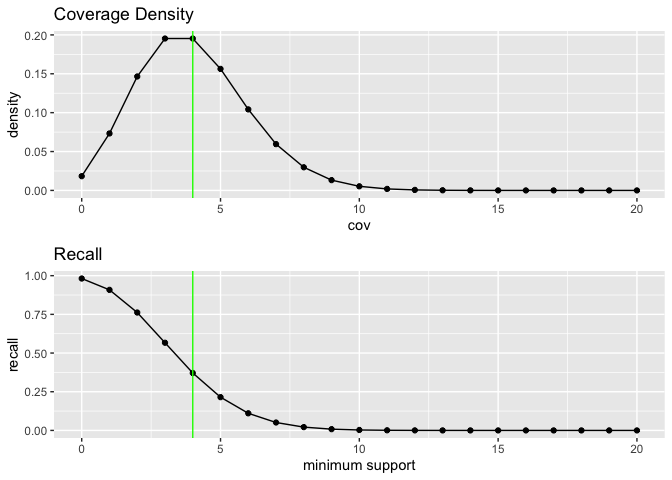
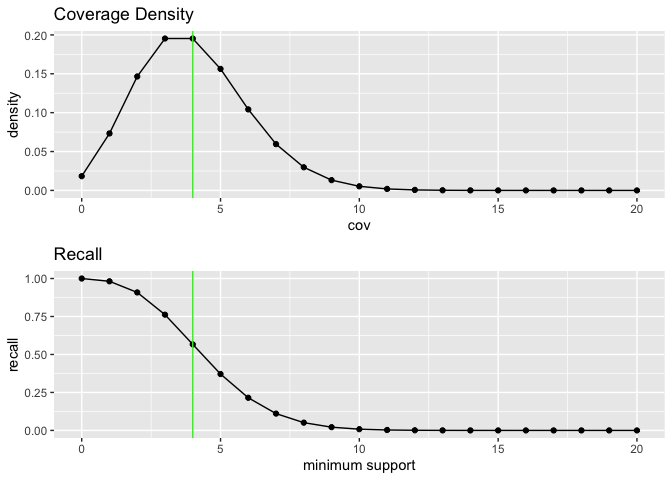
fix ppois issue

diff --git a/coverage_analysis.md b/coverage_analysis.md
@@ -45,11 +45,11 @@ for (x in 1:num_reads)
 ## Summarize the coverage
 
     ## Read counts: 
-    ##    hap1: 49862 hap2: 50138 total: 1e+05 
+    ##    hap1: 49953 hap2: 50047 total: 1e+05 
     ##  Covearge per haplotype:
-    ##    hap1: 49.862 +/- 7.206 [expected sd: 7.061 ]
-    ##    hap2: 50.138 +/- 7.194 [expected sd: 7.081 ]
-    ##    total: 100 +/- 10.32 [expected sd: 10 ]
+    ##    hap1: 49.953 +/- 7.13 [expected sd: 7.068 ]
+    ##    hap2: 50.047 +/- 7.197 [expected sd: 7.074 ]
+    ##    total: 100 +/- 10.2 [expected sd: 10 ]
 
 ## Compute Possion approximation sequencing coverage
 
@@ -87,7 +87,7 @@ for (x in cov_cutoff)
   cov_avail[x]=length(total_coverage[total_coverage >= cov_cutoff[x]])
 }
 df_cov <- data.frame(cutoff = cov_cutoff, avail=cov_avail, avail_perc=cov_avail/genome_length)
-df_cov_model <- data.frame(cutoff = cov_cutoff, perc = (1-ppois(cov_cutoff, coverage)))
+df_cov_model <- data.frame(cutoff = cov_cutoff, perc = (1-ppois(cov_cutoff-1, coverage)))
 ```
 
 ![](coverage_analysis_files/figure-markdown_github/unnamed-chunk-10-1.png)
@@ -108,28 +108,34 @@ df_cov_model <- data.frame(cutoff = cov_cutoff, perc = (1-ppois(cov_cutoff, cove
 
 <table style="width:100%;">
 <colgroup>
-<col width="10%" />
 <col width="8%" />
-<col width="8%" />
-<col width="8%" />
-<col width="8%" />
-<col width="8%" />
-<col width="8%" />
-<col width="8%" />
-<col width="8%" />
-<col width="8%" />
-<col width="8%" />
-<col width="3%" />
+<col width="6%" />
+<col width="6%" />
+<col width="6%" />
+<col width="6%" />
+<col width="6%" />
+<col width="6%" />
+<col width="6%" />
+<col width="6%" />
+<col width="6%" />
+<col width="6%" />
+<col width="6%" />
+<col width="6%" />
+<col width="6%" />
+<col width="2%" />
 </colgroup>
 <thead>
 <tr class="header">
 <th align="right">min_support</th>
+<th align="right">1</th>
 <th align="right">2</th>
 <th align="right">3</th>
 <th align="right">4</th>
 <th align="right">5</th>
 <th align="right">6</th>
+<th align="right">7</th>
 <th align="right">8</th>
+<th align="right">9</th>
 <th align="right">10</th>
 <th align="right">15</th>
 <th align="right">20</th>
@@ -140,86 +146,104 @@ df_cov_model <- data.frame(cutoff = cov_cutoff, perc = (1-ppois(cov_cutoff, cove
 <tbody>
 <tr class="odd">
 <td align="right">0</td>
+<td align="right">1.0000000</td>
+<td align="right">1.0000000</td>
+<td align="right">1.0000000</td>
+<td align="right">1.0000000</td>
+<td align="right">1.0000000</td>
+<td align="right">1.0000000</td>
+<td align="right">1.0000000</td>
+<td align="right">1.0000000</td>
+<td align="right">1.0000000</td>
+<td align="right">1.0000000</td>
+<td align="right">1.0000000</td>
+<td align="right">1.0000000</td>
+<td align="right">1.0000000</td>
+<td align="right">1</td>
+</tr>
+<tr class="even">
+<td align="right">1</td>
+<td align="right">0.6321206</td>
 <td align="right">0.8646647</td>
 <td align="right">0.9502129</td>
 <td align="right">0.9816844</td>
 <td align="right">0.9932621</td>
 <td align="right">0.9975212</td>
+<td align="right">0.9990881</td>
 <td align="right">0.9996645</td>
+<td align="right">0.9998766</td>
 <td align="right">0.9999546</td>
 <td align="right">0.9999997</td>
 <td align="right">1.0000000</td>
 <td align="right">1.0000000</td>
 <td align="right">1</td>
 </tr>
-<tr class="even">
-<td align="right">1</td>
+<tr class="odd">
+<td align="right">2</td>
+<td align="right">0.2642411</td>
 <td align="right">0.5939942</td>
 <td align="right">0.8008517</td>
 <td align="right">0.9084218</td>
 <td align="right">0.9595723</td>
 <td align="right">0.9826487</td>
+<td align="right">0.9927049</td>
 <td align="right">0.9969808</td>
+<td align="right">0.9987659</td>
 <td align="right">0.9995006</td>
 <td align="right">0.9999951</td>
 <td align="right">1.0000000</td>
 <td align="right">1.0000000</td>
 <td align="right">1</td>
 </tr>
-<tr class="odd">
-<td align="right">2</td>
+<tr class="even">
+<td align="right">3</td>
+<td align="right">0.0803014</td>
 <td align="right">0.3233236</td>
 <td align="right">0.5768099</td>
 <td align="right">0.7618967</td>
 <td align="right">0.8753480</td>
 <td align="right">0.9380312</td>
+<td align="right">0.9703638</td>
 <td align="right">0.9862460</td>
+<td align="right">0.9937678</td>
 <td align="right">0.9972306</td>
 <td align="right">0.9999607</td>
 <td align="right">0.9999995</td>
 <td align="right">1.0000000</td>
 <td align="right">1</td>
 </tr>
-<tr class="even">
-<td align="right">3</td>
+<tr class="odd">
+<td align="right">4</td>
+<td align="right">0.0189882</td>
 <td align="right">0.1428765</td>
 <td align="right">0.3527681</td>
 <td align="right">0.5665299</td>
 <td align="right">0.7349741</td>
 <td align="right">0.8487961</td>
+<td align="right">0.9182346</td>
 <td align="right">0.9576199</td>
+<td align="right">0.9787735</td>
 <td align="right">0.9896639</td>
 <td align="right">0.9997886</td>
 <td align="right">0.9999968</td>
 <td align="right">1.0000000</td>
 <td align="right">1</td>
 </tr>
-<tr class="odd">
-<td align="right">4</td>
+<tr class="even">
+<td align="right">5</td>
+<td align="right">0.0036598</td>
 <td align="right">0.0526530</td>
 <td align="right">0.1847368</td>
 <td align="right">0.3711631</td>
 <td align="right">0.5595067</td>
 <td align="right">0.7149435</td>
+<td align="right">0.8270084</td>
 <td align="right">0.9003676</td>
+<td align="right">0.9450364</td>
 <td align="right">0.9707473</td>
 <td align="right">0.9991434</td>
 <td align="right">0.9999831</td>
 <td align="right">0.9999997</td>
-<td align="right">1</td>
-</tr>
-<tr class="even">
-<td align="right">5</td>
-<td align="right">0.0165636</td>
-<td align="right">0.0839179</td>
-<td align="right">0.2148696</td>
-<td align="right">0.3840393</td>
-<td align="right">0.5543204</td>
-<td align="right">0.8087639</td>
-<td align="right">0.9329140</td>
-<td align="right">0.9972076</td>
-<td align="right">0.9999281</td>
-<td align="right">0.9999986</td>
 <td align="right">1</td>
 </tr>
 </tbody>
@@ -229,4 +253,6 @@ df_cov_model <- data.frame(cutoff = cov_cutoff, perc = (1-ppois(cov_cutoff, cove
 
 ![](coverage_analysis_files/figure-markdown_github/unnamed-chunk-15-1.png)
 
-#### Note the recall is computed per haplotype for heterozygous variants. e.g. With 4x coverage per haplotype, we expect to miss ~25% of heterozygous variants per haplotype, so in total we will miss 50% of heterozygous variants overall
+#### Note the recall is computed per haplotype for heterozygous variants.
+
+#### e.g. With 4x coverage per haplotype, requiring a min support of 2, we expect to miss ~10% of heterozygous variants per haplotype, so in total we will miss 20% of heterozygous variants overall
